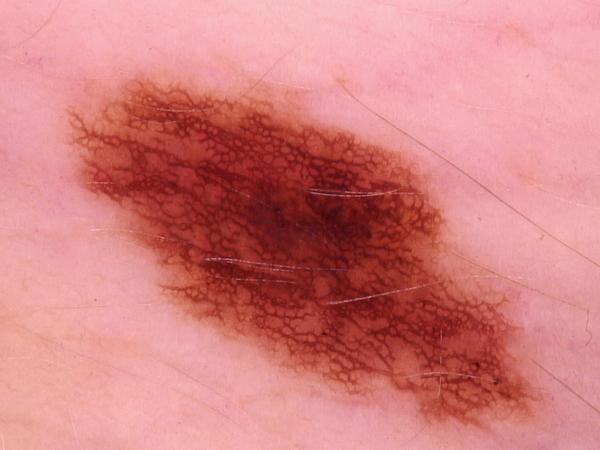
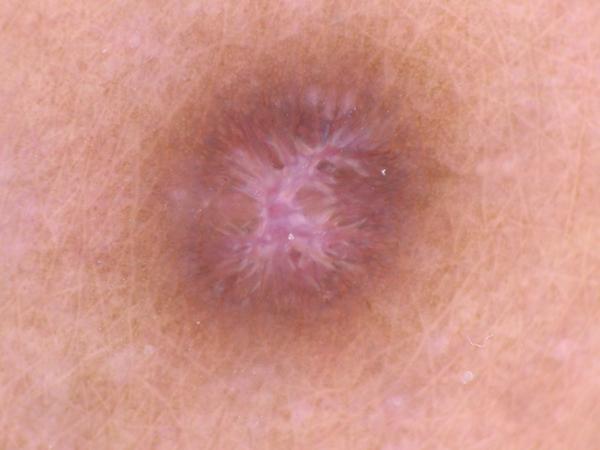
updates

diff --git a/app/app.py b/app/app.py
@@ -200,7 +200,8 @@ st.markdown('<p class="sub-header">Plateforme d’aiguillage intelligent et d’
 if "intent" not in st.session_state:
     st.session_state.intent = None
 
-st.markdown("#### 🎯 Sélectionnez le type d'examen à réaliser :")
+# --- SECTION SÉLECTION : BOUTONS + BARRE DE PROMPT EN LANGAGE NATUREL ---
+st.markdown("#### 🎯 Sélectionnez ou décrivez le type d'examen à réaliser :")
 
 col_btn1, col_btn2, col_btn3 = st.columns(3)
 
@@ -215,6 +216,25 @@ with col_btn2:
 with col_btn3:
     if st.button("📋 Bilan Global (Les deux)", use_container_width=True, type="primary"):
         st.session_state.intent = "MULTIMODAL"
+
+# Barre de prompt en langage naturel (Orchestrateur)
+st.markdown("<br>", unsafe_allow_html=True)
+user_prompt = st.text_input("💬 **Ou exprimez votre besoin en langage naturel (ex: 'Analyser le risque diabétique et vérifier cette lésion suspecte') :**", key="doctor_prompt_input")
+if st.button("🚀 Soumettre la requête textuelle", use_container_width=False):
+    if user_prompt:
+        query_lower = user_prompt.lower()
+        has_diab = any(w in query_lower for w in ["diabète", "glycémie", "métabolique", "sucre", "tabulaire", "diabete"])
+        has_derm = any(w in query_lower for w in ["peau", "lésion", "mélanome", "dermatologie", "image", "tache", "cutané"])
+        
+        if has_diab and has_derm:
+            st.session_state.intent = "MULTIMODAL"
+        elif has_derm:
+            st.session_state.intent = "IMAGE_ONLY"
+        elif has_diab:
+            st.session_state.intent = "TABULAR_ONLY"
+        else:
+            st.session_state.intent = "MULTIMODAL"
+        st.rerun()
 
 st.markdown("---")
 
@@ -285,7 +305,6 @@ if st.session_state.intent:
             except Exception as e:
                 st.error(f"Erreur lors du calcul du modèle : {e}")
         else:
-            # Fallback si modèle non chargé directement
             prob_fallback = 0.78 if glucose > 140 else 0.25
             risk_label = "Risque Élevé" if prob_fallback > 0.5 else "Risque Faible"
             conf_label = f"{prob_fallback*100:.1f}%"
